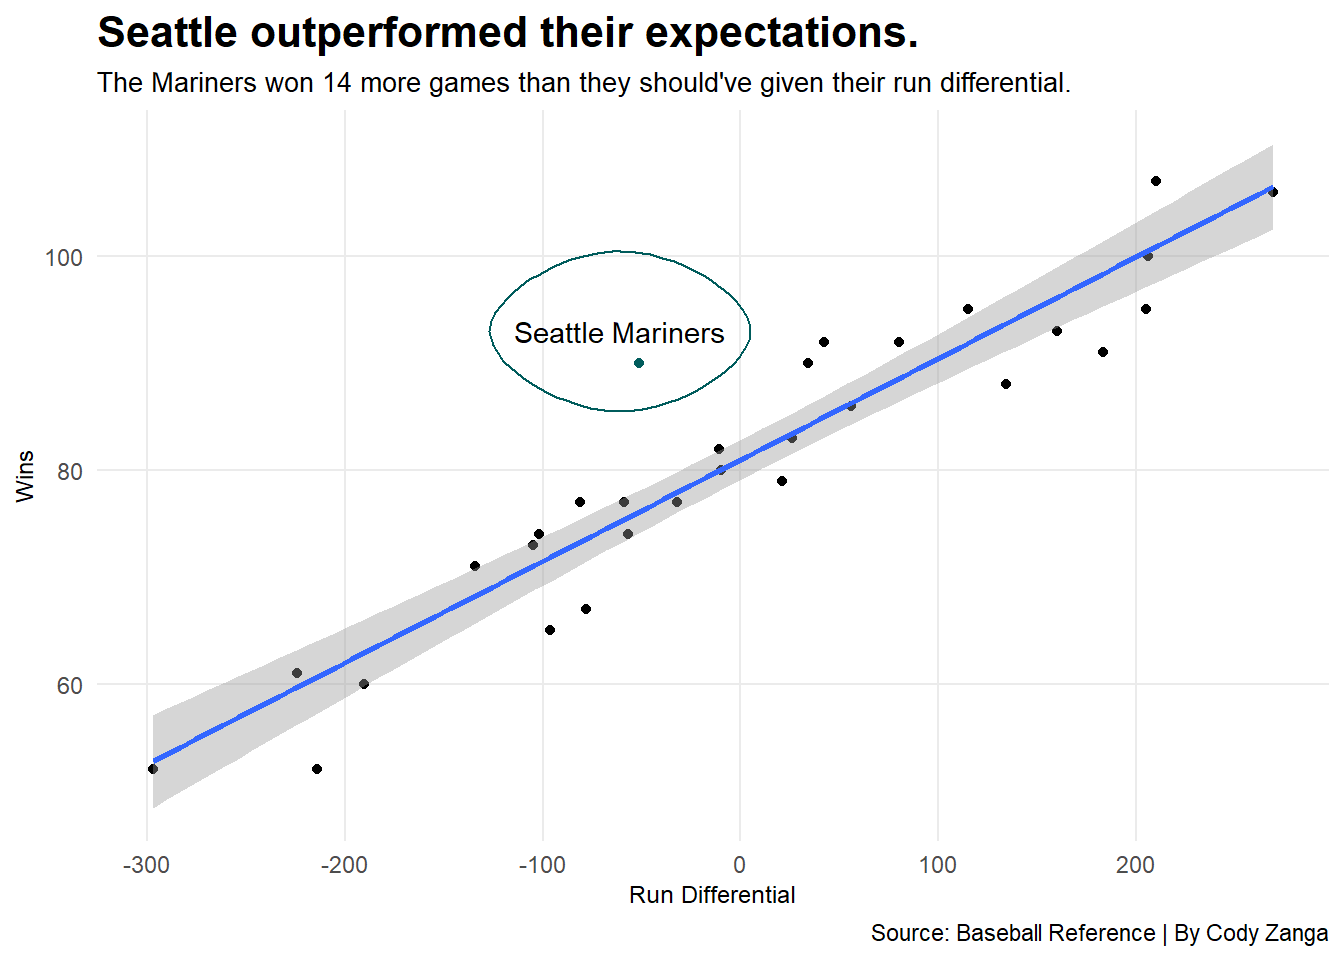
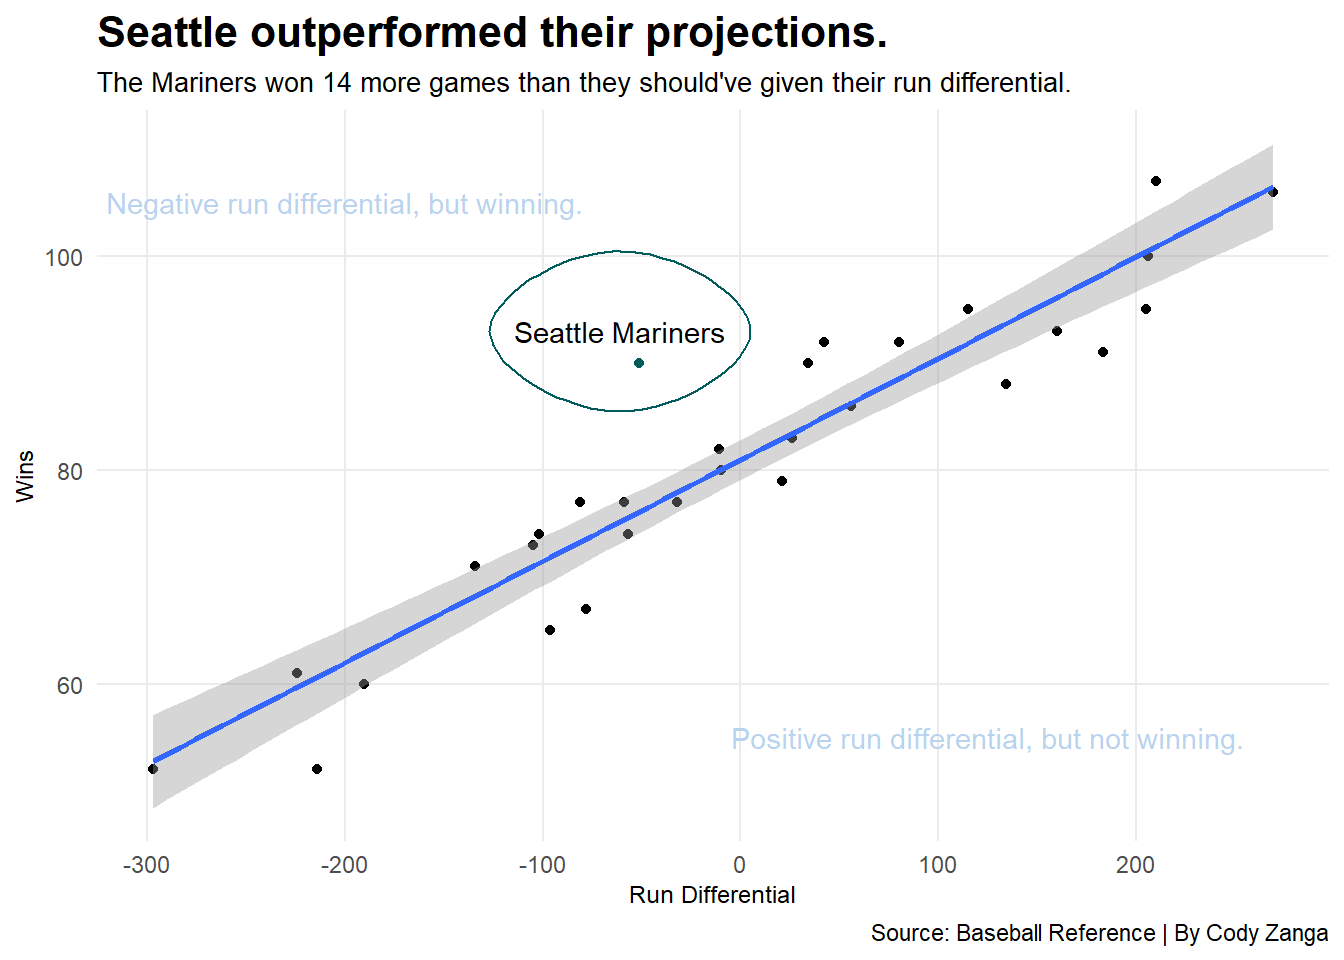
Bar Chart Added
New chart and edited content.

Changed region(s): [[0.5312, 0.75, 0.9062, 0.7812], [0.4688, 0.0, 0.6875, 0.0625], [0.0625, 0.1875, 0.4375, 0.2188]]

diff --git a/2022/03/24/mariners/index.html b/2022/03/24/mariners/index.html
@@ -57,7 +57,7 @@
 
   <article class="article">
     
-    <span class="article-duration">7 min read</span>
+    <span class="article-duration">8 min read</span>
     
 
     <h1 class="article-title">Were the 2021 Mariners lucky, good or both?</h1>
@@ -71,17 +71,17 @@
 
 
 <p>Fans of the Seattle Mariners have had to face more consistent ineptitude than almost any other professional team in American sports. For a team that has been around since 1977 to only have four playoff appearances is unacceptable. Currently, the last playoff appearance for the Mariners was in 2001, which was 21-years-ago. With that said, the Mariners are the proud owners of the longest playoff drought in American sports, but last season there was a glimmer of hope.</p>
-<p>Somehow, someway the Mariners clawed their way to an improbable 90-win season. Was this just a miracle or does this point to potential future success? You didn’t have to watch many Mariner’s games to realize that on most nights they were not the more talented team on the field. How does a team that ranked between the middle and bottom of most important statistics manage to find their way to 90 wins?</p>
+<p>Somehow, someway the Mariners clawed their way to an improbable 90-win season. Was this just a miracle or does this point to potential future success? How does a team that ranked between the middle and bottom of most important statistics manage to find their way to 90 wins?</p>
 <p>Well there’s a couple ways. First you have to take advantage of your potential scoring opportunities and second you have to avoid giving up the lead once you grabbed a hold of it.</p>
-<p>The Mariner’s weren’t great at many things last year, but the one thing they were good at was getting saves. MLB defines saves as a relief pitcher preserving his team’s lead by entering a game with a lead of no more than three runs and pitches at least one inning, by entering the game with the tying run in the on-deck circle, at the plate or on the base paths, or pitches as least three innings. Keep in mind that in all these situation the team’s lead cannot be given up by the pitcher.</p>
+<p>The Mariner’s weren’t great at many things last year, but the one thing they were good at was getting saves. MLB defines saves as a relief pitcher preserving his team’s lead by entering a game with a lead of no more than three runs and pitches at least one inning, by entering the game with the tying run in the on-deck circle, at the plate or on the base paths, or pitches as least three innings. Keep in mind that in all these situation the team must win the game.</p>
 <p>Seattle had 51 saves last year, which was good for 3rd in the MLB.</p>
-<p>Using data from Baseball Reference, we’ll take a look at how the Mariner’s were able to beat the odds and far outperform their expected win total.</p>
-<div id="kgieovzgfx" style="overflow-x:auto;overflow-y:auto;width:auto;height:auto;">
+<p>Using data from Baseball Reference and Fangraphs, we’ll take a look at how the Mariner’s were able to beat the odds and far outperform their expected win total.</p>
+<div id="hzcycepqdp" style="overflow-x:auto;overflow-y:auto;width:auto;height:auto;">
 <style>html {
   font-family: -apple-system, BlinkMacSystemFont, 'Segoe UI', Roboto, Oxygen, Ubuntu, Cantarell, 'Helvetica Neue', 'Fira Sans', 'Droid Sans', Arial, sans-serif;
 }
 
-#kgieovzgfx .gt_table {
+#hzcycepqdp .gt_table {
   display: table;
   border-collapse: collapse;
   margin-left: auto;
@@ -106,7 +106,7 @@
   border-left-color: #D3D3D3;
 }
 
-#kgieovzgfx .gt_heading {
+#hzcycepqdp .gt_heading {
   background-color: #FFFFFF;
   text-align: center;
   border-bottom-color: #FFFFFF;
@@ -118,7 +118,7 @@
   border-right-color: #D3D3D3;
 }
 
-#kgieovzgfx .gt_title {
+#hzcycepqdp .gt_title {
   color: #333333;
   font-size: 125%;
   font-weight: initial;
@@ -130,7 +130,7 @@
   border-bottom-width: 0;
 }
 
-#kgieovzgfx .gt_subtitle {
+#hzcycepqdp .gt_subtitle {
   color: #333333;
   font-size: 85%;
   font-weight: initial;
@@ -142,13 +142,13 @@
   border-top-width: 0;
 }
 
-#kgieovzgfx .gt_bottom_border {
+#hzcycepqdp .gt_bottom_border {
   border-bottom-style: none;
   border-bottom-width: 2px;
   border-bottom-color: #D3D3D3;
 }
 
-#kgieovzgfx .gt_col_headings {
+#hzcycepqdp .gt_col_headings {
   border-top-style: none;
   border-top-width: 2px;
   border-top-color: #D3D3D3;
@@ -163,7 +163,7 @@
   border-right-color: #D3D3D3;
 }
 
-#kgieovzgfx .gt_col_heading {
+#hzcycepqdp .gt_col_heading {
   color: #333333;
   background-color: #FFFFFF;
   font-size: 100%;
@@ -183,7 +183,7 @@
   overflow-x: hidden;
 }
 
-#kgieovzgfx .gt_column_spanner_outer {
+#hzcycepqdp .gt_column_spanner_outer {
   color: #333333;
   background-color: #FFFFFF;
   font-size: 100%;
@@ -195,15 +195,15 @@
   padding-right: 4px;
 }
 
-#kgieovzgfx .gt_column_spanner_outer:first-child {
+#hzcycepqdp .gt_column_spanner_outer:first-child {
   padding-left: 0;
 }
 
-#kgieovzgfx .gt_column_spanner_outer:last-child {
+#hzcycepqdp .gt_column_spanner_outer:last-child {
   padding-right: 0;
 }
 
-#kgieovzgfx .gt_column_spanner {
+#hzcycepqdp .gt_column_spanner {
   border-bottom-style: none;
   border-bottom-width: 2px;
   border-bottom-color: #D3D3D3;
@@ -215,7 +215,7 @@
   width: 100%;
 }
 
-#kgieovzgfx .gt_group_heading {
+#hzcycepqdp .gt_group_heading {
   padding-top: 8px;
   padding-bottom: 8px;
   padding-left: 5px;
@@ -240,7 +240,7 @@
   vertical-align: middle;
 }
 
-#kgieovzgfx .gt_empty_group_heading {
+#hzcycepqdp .gt_empty_group_heading {
   padding: 0.5px;
   color: #333333;
   background-color: #FFFFFF;
@@ -255,15 +255,15 @@
   vertical-align: middle;
 }
 
-#kgieovzgfx .gt_from_md > :first-child {
+#hzcycepqdp .gt_from_md > :first-child {
   margin-top: 0;
 }
 
-#kgieovzgfx .gt_from_md > :last-child {
+#hzcycepqdp .gt_from_md > :last-child {
   margin-bottom: 0;
 }
 
-#kgieovzgfx .gt_row {
+#hzcycepqdp .gt_row {
   padding-top: 8px;
   padding-bottom: 8px;
   padding-left: 5px;
@@ -282,7 +282,7 @@
   overflow-x: hidden;
 }
 
-#kgieovzgfx .gt_stub {
+#hzcycepqdp .gt_stub {
   color: #333333;
   background-color: #FFFFFF;
   font-size: 100%;
@@ -295,7 +295,7 @@
   padding-right: 5px;
 }
 
-#kgieovzgfx .gt_stub_row_group {
+#hzcycepqdp .gt_stub_row_group {
   color: #333333;
   background-color: #FFFFFF;
   font-size: 100%;
@@ -309,11 +309,11 @@
   vertical-align: top;
 }
 
-#kgieovzgfx .gt_row_group_first td {
+#hzcycepqdp .gt_row_group_first td {
   border-top-width: 2px;
 }
 
-#kgieovzgfx .gt_summary_row {
+#hzcycepqdp .gt_summary_row {
   color: #333333;
   background-color: #FFFFFF;
   text-transform: inherit;
@@ -323,16 +323,16 @@
   padding-right: 5px;
 }
 
-#kgieovzgfx .gt_first_summary_row {
+#hzcycepqdp .gt_first_summary_row {
   border-top-style: none;
   border-top-color: #D3D3D3;
 }
 
-#kgieovzgfx .gt_first_summary_row.thick {
+#hzcycepqdp .gt_first_summary_row.thick {
   border-top-width: 2px;
 }
 
-#kgieovzgfx .gt_last_summary_row {
+#hzcycepqdp .gt_last_summary_row {
   padding-top: 8px;
   padding-bottom: 8px;
   padding-left: 5px;
@@ -342,7 +342,7 @@
   border-bottom-color: #D3D3D3;
 }
 
-#kgieovzgfx .gt_grand_summary_row {
+#hzcycepqdp .gt_grand_summary_row {
   color: #333333;
   background-color: #FFFFFF;
   text-transform: inherit;
@@ -352,7 +352,7 @@
   padding-right: 5px;
 }
 
-#kgieovzgfx .gt_first_grand_summary_row {
+#hzcycepqdp .gt_first_grand_summary_row {
   padding-top: 8px;
   padding-bottom: 8px;
   padding-left: 5px;
@@ -362,11 +362,11 @@
   border-top-color: #D3D3D3;
 }
 
-#kgieovzgfx .gt_striped {
+#hzcycepqdp .gt_striped {
   background-color: rgba(128, 128, 128, 0.05);
 }
 
-#kgieovzgfx .gt_table_body {
+#hzcycepqdp .gt_table_body {
   border-top-style: none;
   border-top-width: 2px;
   border-top-color: #D3D3D3;
@@ -375,7 +375,7 @@
   border-bottom-color: #D3D3D3;
 }
 
-#kgieovzgfx .gt_footnotes {
+#hzcycepqdp .gt_footnotes {
   color: #333333;
   background-color: #FFFFFF;
   border-bottom-style: none;
@@ -389,7 +389,7 @@
   border-right-color: #D3D3D3;
 }
 
-#kgieovzgfx .gt_footnote {
+#hzcycepqdp .gt_footnote {
   margin: 0px;
   font-size: 90%;
   padding-left: 4px;
@@ -398,7 +398,7 @@
   padding-right: 5px;
 }
 
-#kgieovzgfx .gt_sourcenotes {
+#hzcycepqdp .gt_sourcenotes {
   color: #333333;
   background-color: #FFFFFF;
   border-bottom-style: none;
@@ -412,7 +412,7 @@
   border-right-color: #D3D3D3;
 }
 
-#kgieovzgfx .gt_sourcenote {
+#hzcycepqdp .gt_sourcenote {
   font-size: 90%;
   padding-top: 4px;
   padding-bottom: 4px;
@@ -420,60 +420,60 @@
   padding-right: 5px;
 }
 
-#kgieovzgfx .gt_left {
+#hzcycepqdp .gt_left {
   text-align: left;
 }
 
-#kgieovzgfx .gt_center {
+#hzcycepqdp .gt_center {
   text-align: center;
 }
 
-#kgieovzgfx .gt_right {
+#hzcycepqdp .gt_right {
   text-align: right;
   font-variant-numeric: tabular-nums;
 }
 
-#kgieovzgfx .gt_font_normal {
+#hzcycepqdp .gt_font_normal {
   font-weight: normal;
 }
 
-#kgieovzgfx .gt_font_bold {
+#hzcycepqdp .gt_font_bold {
   font-weight: bold;
 }
 
-#kgieovzgfx .gt_font_italic {
+#hzcycepqdp .gt_font_italic {
   font-style: italic;
 }
 
-#kgieovzgfx .gt_super {
+#hzcycepqdp .gt_super {
   font-size: 65%;
 }
 
-#kgieovzgfx .gt_footnote_marks {
+#hzcycepqdp .gt_footnote_marks {
   font-style: italic;
   font-weight: normal;
   font-size: 75%;
   vertical-align: 0.4em;
 }
 
-#kgieovzgfx .gt_asterisk {
+#hzcycepqdp .gt_asterisk {
   font-size: 100%;
   vertical-align: 0;
 }
 
-#kgieovzgfx .gt_slash_mark {
+#hzcycepqdp .gt_slash_mark {
   font-size: 0.7em;
   line-height: 0.7em;
   vertical-align: 0.15em;
 }
 
-#kgieovzgfx .gt_fraction_numerator {
+#hzcycepqdp .gt_fraction_numerator {
   font-size: 0.6em;
   line-height: 0.6em;
   vertical-align: 0.45em;
 }
 
-#kgieovzgfx .gt_fraction_denominator {
+#hzcycepqdp .gt_fraction_denominator {
   font-size: 0.6em;
   line-height: 0.6em;
   vertical-align: -0.05em;
@@ -559,10 +559,13 @@
 <p><img src="http://codyzanga.github.io/2022/03/24/mariners/index_files/figure-html/unnamed-chunk-10-1.png" width="672" /></p>
 <p>You can see that there’s a strong correlation between run differential and winning games. Seattle overachieved more than any other team in the MLB last year.</p>
 <p>When you look at this from the standpoint that the Mariners should have only won 76 games last year, suddenly you don’t feel as good about them bursting onto the playoff scene this year.</p>
-<p><img src="http://codyzanga.github.io/2022/03/24/mariners/index_files/figure-html/unnamed-chunk-12-1.png" width="672" /></p>
+<p><img src="http://codyzanga.github.io/2022/03/24/mariners/index_files/figure-html/unnamed-chunk-14-1.png" width="672" /></p>
+<p>I know the term clutch value is a little bit vague. David Appelman of Fangraphs defines clutch as “how much better or worse a player does in high leverage situations than he would have done in a context neutral environment.”A high leverage situation would be a specific point in a game that could cause a significant shift in the outcome of that game, such as getting a base hit with the bases loaded and two outs when your team is down one run.</p>
+<p>In these big time situations where the Mariner’s had to have something go their way, more often than not they were able to make magic happen.</p>
+<p><img src="http://codyzanga.github.io/2022/03/24/mariners/index_files/figure-html/unnamed-chunk-16-1.png" width="672" /></p>
 <p>You might look at this and think to yourself that Seattle is kind of off in their own little area and you would be correct. By the very nature of saves you’re typically winning games by small margins. Over half of the Mariner’s wins came in this fashion, so they were winning a lot of close games.</p>
-<p>How did the Mariner’s win 90 games with a -51 run differential? Well they won a lot of games in close fashion and when they were losing, they were losing big. That’s how you find your way to this unlikely result.</p>
-<p>Despite the data making it look more as if the Mariner’s got lucky last year, hopefully they will find a way to get into the playoffs soon. For fans of the team and baseball fans in general it would be nice to see them finally make it back to the playoffs for the first time since the days of Ichiro Suzuki and Edgar Martinez.</p>
+<p>How did the Mariner’s win 90 games with a -51 run differential? Well they won a lot of games in close fashion and came up with clutch plays when they need them. When they were losing, they were losing big. That’s how you find your way to this unlikely result.</p>
+<p>Despite the data making it look more as if the Mariner’s got lucky last year, especially with their clutch value, hopefully they will find a way to get into the playoffs soon. For fans of the team and baseball fans in general it would be nice to see them finally make it back to the playoffs for the first time since the days of Ichiro Suzuki and Edgar Martinez.</p>
 
     </div>
   </article>
